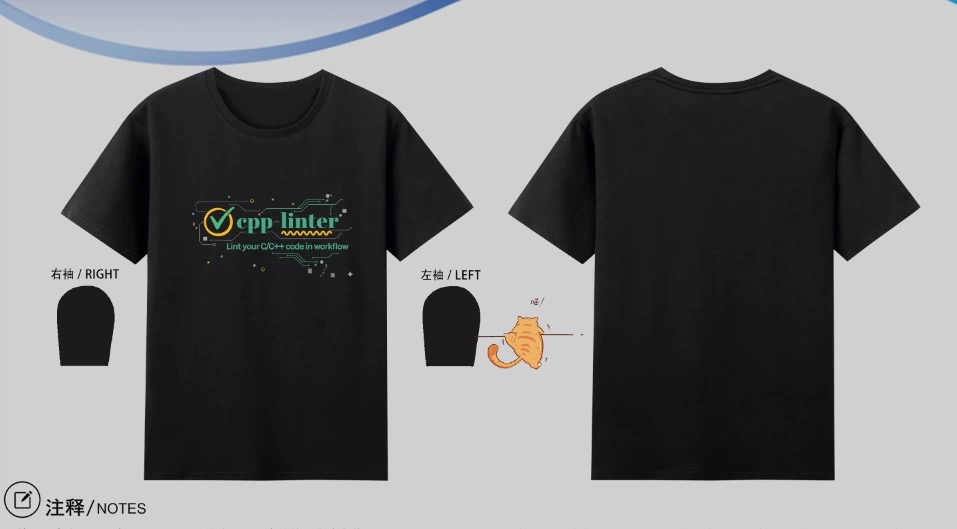
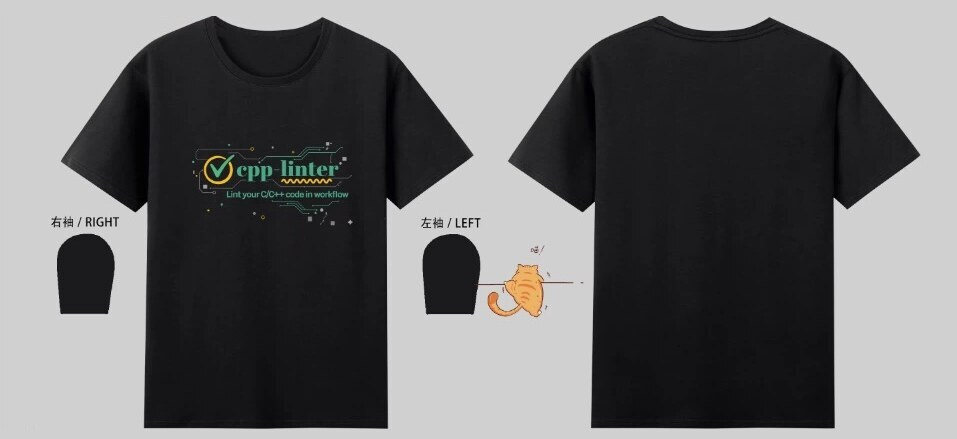
docs: bring the inner pages in line with the home page
- Buttons take the home page's shape and colors, and hover states use
  the indigo palette instead of cyan.
- Pages that are a section of their own hide the left navigation,
  which only repeated the tab name, and keep text at a readable width.
- The why page's comparison table and the sponsor size chart fit the
  content column instead of scrolling sideways.
- Tab labels match the home header: Get started, Why cpp-linter,
  Community. The prev/next footer is gone, since it pointed at blog
  archive pages; the footer links to Discussions and Open Collective.
- Blog tags are displayed, the blog index is attached to its section,
  and the orphan team author page is removed.
- The theme overrides and requirements file are no longer published.
- The T-shirt photos are resized from 8.4 MB to 280 KB, and the
  mockups are cropped to the shirts.

diff --git a/docs/stylesheets/extra.css b/docs/stylesheets/extra.css
@@ -1,27 +1,3 @@
-.md-typeset .md-button:hover {
-    color: black;
-}
-
-/* Card enhancements */
-.md-typeset .grid.cards > .card-content {
-    background: var(--md-default-bg-color);
-    border: 1px solid var(--md-default-fg-color--lightest);
-    border-radius: 0.5rem;
-    padding: 1.5rem;
-    transition: all 0.3s ease;
-}
-
-.md-typeset .grid.cards > .card-content:hover {
-    transform: translateY(-2px);
-    box-shadow: 0 8px 25px rgba(0,0,0,0.1);
-    border-color: var(--md-primary-fg-color);
-}
-
-/* Code block enhancements */
-.md-typeset pre > code {
-    border-radius: 0.5rem;
-}
-
 /* Merchandise page styling */
 .image-grid {
     display: grid;
@@ -44,30 +20,9 @@
     box-shadow: 0 8px 12px rgba(0,0,0,0.2);
 }
 
-/* Size chart table styling */
-.md-typeset table {
-    font-size: 0.9em;
-}
-
-.md-typeset table th {
-    text-align: center;
-}
-
-.md-typeset table td {
-    text-align: center;
-}
-
-/* Button styling improvements */
-.md-button {
-    border-radius: 2rem;
-    padding: 0.5rem 1.5rem;
-    font-weight: 500;
-    transition: all 0.3s ease;
-}
-
-.md-button:hover {
-    transform: translateY(-1px);
-    box-shadow: 0 4px 12px rgba(0,0,0,0.15);
+/* Code block enhancements */
+.md-typeset pre > code {
+    border-radius: 0.5rem;
 }
 
 /* Fonts: loaded in overrides/main.html (theme.font is false) */
@@ -94,6 +49,67 @@
     font-weight: 700;
 }
 
+/* Buttons in the shape and colors of the home page buttons */
+.md-typeset .md-button {
+    padding: 0.6em 1.3em;
+    background-color: var(--cl-button-bg);
+    border: 1px solid var(--cl-button-line);
+    border-radius: 12px;
+    color: var(--cl-button-fg);
+    font-weight: 600;
+    transition: background-color 0.2s, border-color 0.2s;
+}
+
+.md-typeset .md-button:focus,
+.md-typeset .md-button:hover {
+    background-color: var(--cl-button-bg);
+    border-color: var(--cl-button-line-hover);
+    color: var(--cl-button-fg);
+}
+
+.md-typeset .md-button--primary,
+.md-typeset .md-button--primary:focus,
+.md-typeset .md-button--primary:hover {
+    border-color: transparent;
+    color: #fff;
+}
+
+.md-typeset .md-button--primary {
+    background-color: #4051b5;
+}
+
+.md-typeset .md-button--primary:focus,
+.md-typeset .md-button--primary:hover {
+    background-color: var(--cl-button-primary-hover);
+}
+
+/* Pages without the left navigation keep their text at a readable width */
+@media screen and (min-width: 76.25em) {
+    .md-sidebar--primary[hidden] ~ .md-content {
+        max-width: 42rem;
+    }
+}
+
+/* The comparison table on the why page and the size chart on the sponsor page:
+ * narrow columns so they fit that width */
+.md-typeset .compare table:not([class]) th,
+.md-typeset .size-chart table:not([class]) th {
+    min-width: 0;
+}
+
+.md-typeset .compare table:not([class]) {
+    font-size: 0.62rem;
+}
+
+.md-typeset .compare table:not([class]) th,
+.md-typeset .compare table:not([class]) td {
+    padding: 0.75em 0.6em;
+}
+
+.md-typeset .compare table:not([class]) td:first-child {
+    font-weight: 600;
+}
+
 /*
  * Light scheme: the paper, ink and light header of the home page.
  */
@@ -108,6 +124,13 @@
     --md-code-bg-color--lighter: #eeeae04d;
     --md-footer-bg-color: #171a2e;
     --md-footer-bg-color--dark: #10131f;
+    --md-accent-fg-color: #2b3685;
+    --md-accent-fg-color--transparent: #2b36851a;
+    --cl-button-bg: #fff;
+    --cl-button-line: #d8d3c4;
+    --cl-button-line-hover: #bdb6a2;
+    --cl-button-fg: #171a2e;
+    --cl-button-primary-hover: #2b3685;
 }
 
 [data-md-color-scheme="default"] .md-header,
@@ -176,6 +199,13 @@
     --md-typeset-kbd-border-color: #16182a;
     --md-footer-bg-color: #10121f;
     --md-footer-bg-color--dark: #0b0d17;
+    --md-accent-fg-color: #aab5ff;
+    --md-accent-fg-color--transparent: #aab5ff1a;
+    --cl-button-bg: #1f2237;
+    --cl-button-line: #34385a;
+    --cl-button-line-hover: #565b80;
+    --cl-button-fg: #ece9e1;
+    --cl-button-primary-hover: #5465c9;
 }
 
 [data-md-color-scheme="slate"][data-md-color-primary="indigo"] {
